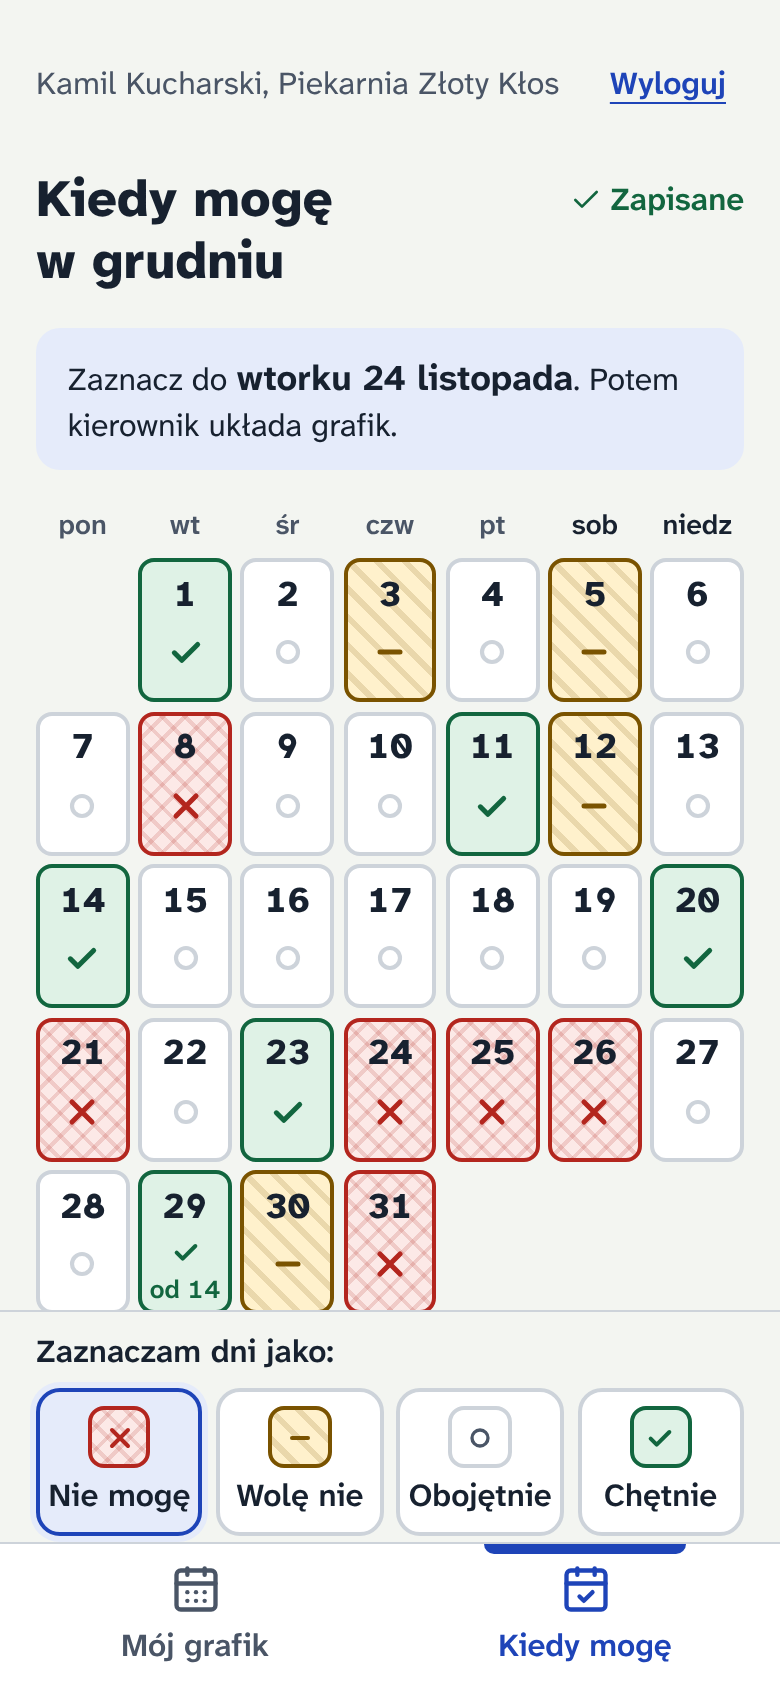
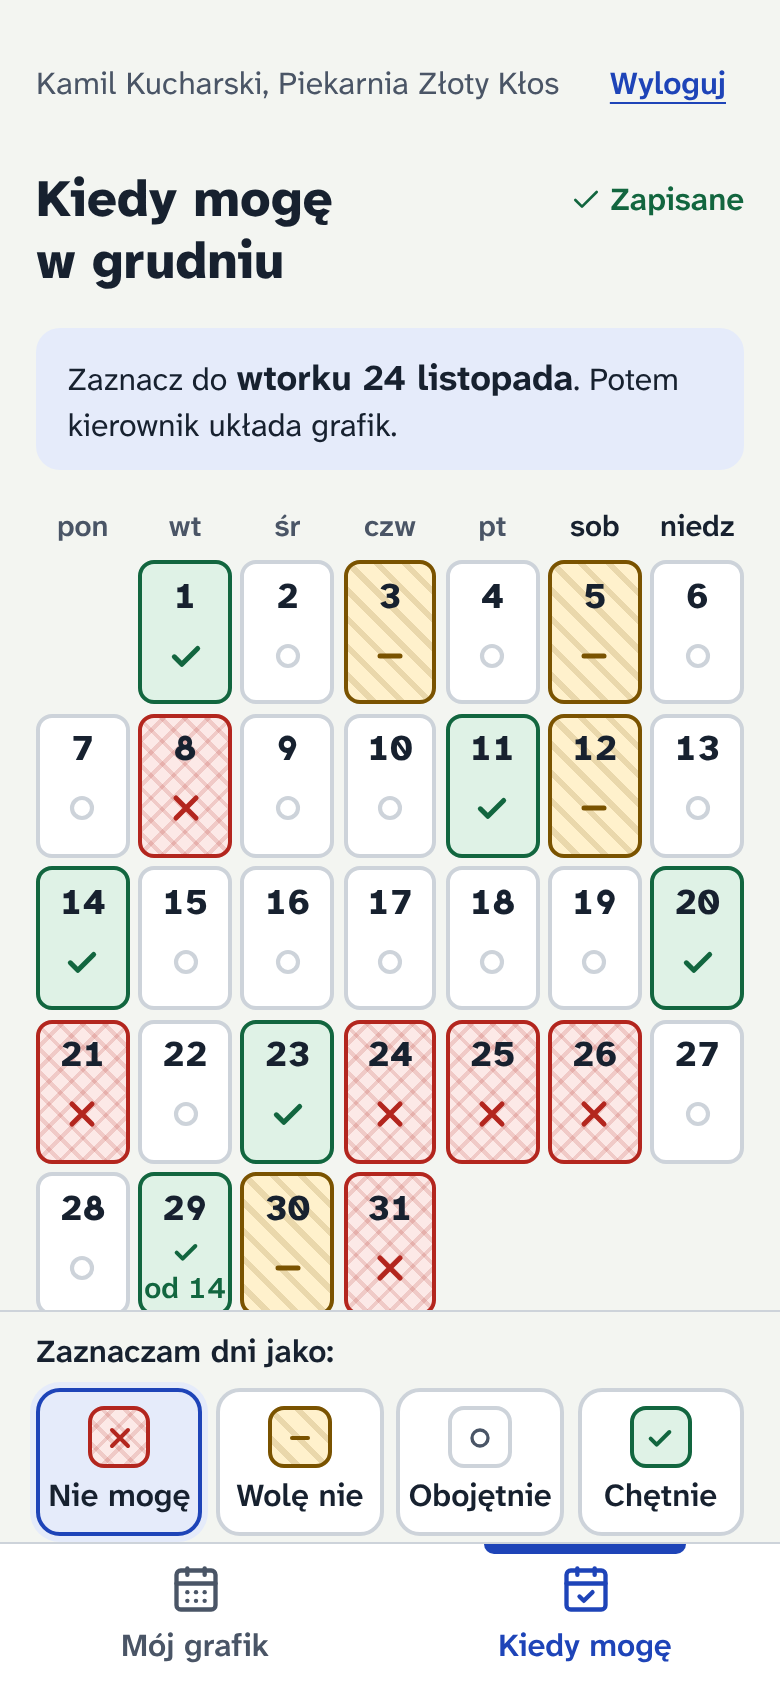
Larger small text, calendar cells grow for hours, no overflow at 360 px
- text-cell 13 -> 15 px, text-xs 14 -> 15 px; token comment states where they are used.
- Calendar day cells grow (rows stay even) so hours like "14–22" wrap instead of being cut.
- Header name truncates so "Wyloguj" stays on screen on 360 px phones.

Claude-Session: https://claude.ai/code/session_01EvmcCo4qz2pWAJ61h7Xgtv

diff --git a/frontend/src/routes/_pracownik.tsx b/frontend/src/routes/_pracownik.tsx
@@ -49,7 +49,7 @@ function EmployeeLayout() {
     <EmployeeContext.Provider value={{ companyId: company.id, readOnly: company.read_only }}>
       <div className="pb-[calc(76px+env(safe-area-inset-bottom))] md:pb-0">
         <header className="mx-auto grid max-w-(--column) gap-3 px-4 pt-4">
-          <div className="flex items-center justify-between gap-3 text-sm text-ink-muted">
+          <div className="flex min-w-0 items-center justify-between gap-3 text-sm text-ink-muted">
             <span className="min-w-0 truncate">
               {`${me.first_name} ${me.last_name}`.trim() || 'Twoje konto'}
               {me.companies.length > 1 && (
@@ -71,7 +71,7 @@ function EmployeeLayout() {
             <button
               type="button"
               onClick={signOut}
-              className="min-h-(--touch) cursor-pointer rounded-sm px-2 font-semibold text-accent underline underline-offset-4 hover:bg-accent-soft"
+              className="min-h-(--touch) shrink-0 cursor-pointer rounded-sm px-2 font-semibold text-accent underline underline-offset-4 hover:bg-accent-soft"
             >
               Wyloguj
             </button>

diff --git a/frontend/src/features/availability/AvailabilityCalendar.tsx b/frontend/src/features/availability/AvailabilityCalendar.tsx
@@ -131,7 +131,7 @@ function DayCell({
         aria-disabled={disabled || undefined}
         className={cn(
           `avail-${mark.state}`,
-          'grid h-16 w-full min-w-0 cursor-pointer grid-rows-[auto_1fr_auto] justify-items-center rounded-sm border-2 px-0 py-1',
+          'grid h-full min-h-16 w-full min-w-0 cursor-pointer grid-rows-[auto_1fr_auto] justify-items-center rounded-sm border-2 px-0 py-1',
           'transition-colors duration-75',
           disabled && 'cursor-default opacity-75',
         )}
@@ -142,7 +142,7 @@ function DayCell({
         <span className={cn('self-center', mark.state === 'neutral' && 'text-line')}>
           <StateIcon state={mark.state} size={hours ? 16 : 20} />
         </span>
-        {hours && <span className="text-cell font-semibold tabular-nums">{hours}</span>}
+        {hours && <span className="text-center text-cell font-semibold tabular-nums">{hours}</span>}
       </button>
     </div>
   )

diff --git a/frontend/src/styles/tokens.css b/frontend/src/styles/tokens.css
@@ -34,10 +34,11 @@
   --font-sans: 'Atkinson Hyperlegible Next Variable', 'Atkinson Hyperlegible', 'Segoe UI', Roboto, system-ui, sans-serif;
 
   --text-*: initial;
-  /* Only for the hours inside a calendar day ("14–22"); every other text is 16 px or more. */
-  --text-cell: 13px;
+  /* Body text is 18 px (spec). Smaller sizes are only for short labels: the hours inside a calendar day
+     ("14–22", also listed full size under the calendar), weekday headers and week labels. */
+  --text-cell: 15px;
   --text-cell--line-height: 1;
-  --text-xs: 14px;
+  --text-xs: 15px;
   --text-xs--line-height: 1.35;
   --text-sm: 16px;
   --text-sm--line-height: 1.4;
